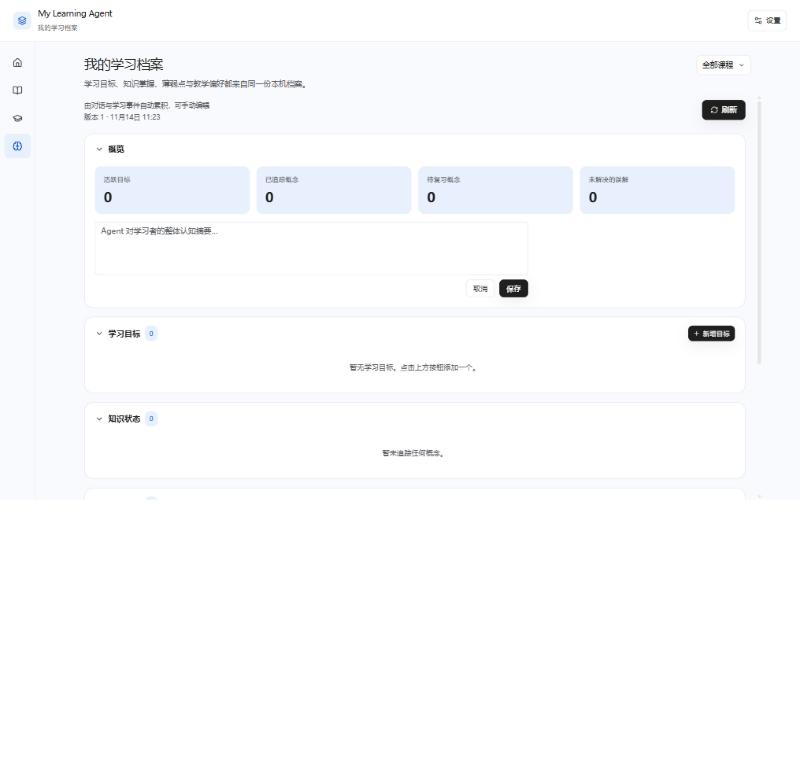
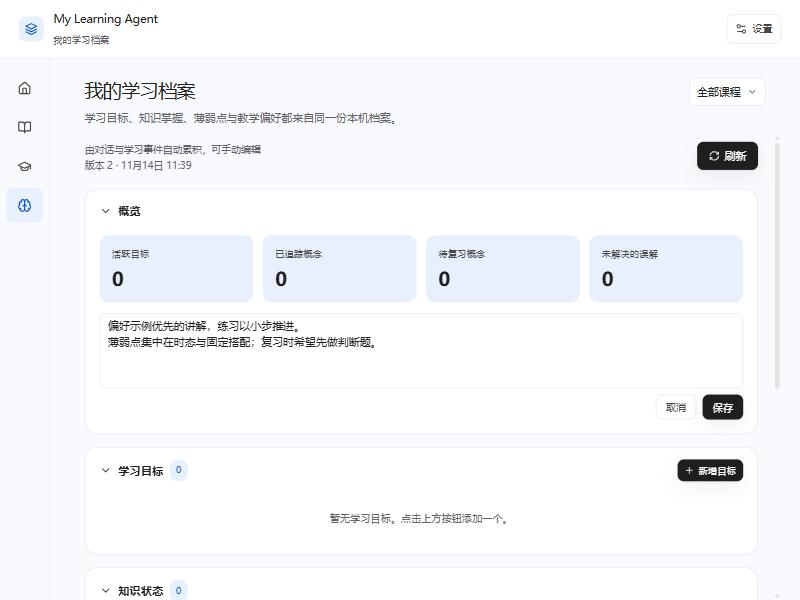
fix(profile): 摘要阅读卡与编辑框和上方统计块等宽
摘要原来被限制在 780px，而上方四个统计块铺满卡片，两者右边缘不齐，
看起来像两个不相关的区域。去掉该宽度限制，阅读卡、空状态和编辑框
都与统计块同宽；手机端同样对齐且无横向溢出。

diff --git a/apps/learning-agent/web/src/react/LearnerProfilePanel.tsx b/apps/learning-agent/web/src/react/LearnerProfilePanel.tsx
@@ -179,7 +179,7 @@ function SummarySection() {
 			</div>
 
 			{editing ? (
-				<div className="flex max-w-[780px] flex-col gap-2">
+				<div className="flex flex-col gap-2">
 					<Textarea
 						aria-label={t("profile.summary.readLabel")}
 						ref={textareaRef}
@@ -212,16 +212,16 @@ function SummarySection() {
 					</div>
 				</div>
 			) : saved ? (
-				// Long prose keeps the pre-widening measure: a card stretched to the
-				// 1240px column would set 90+ character lines.
-				<div className="max-w-[780px] rounded-xl border border-[var(--inno-border)] bg-[var(--inno-surface-muted)] px-4 py-3">
+				// Same width as the stat grid above: the summary is part of that
+				// block, and a narrower box read as a separate, unrelated field.
+				<div className="rounded-xl border border-[var(--inno-border)] bg-[var(--inno-surface-muted)] px-4 py-3">
 					<p className="m-0 whitespace-pre-wrap text-[13px] leading-relaxed text-[var(--inno-text-muted)]">
 						{saved}
 					</p>
 				</div>
 			) : (
 				// Compact empty state: one quiet line, not a form-sized blank box.
-				<p className="m-0 max-w-[780px] rounded-xl border border-dashed border-[var(--inno-border)] px-4 py-3 text-[13px] leading-relaxed text-[var(--inno-text-subtle)]">
+				<p className="m-0 rounded-xl border border-dashed border-[var(--inno-border)] px-4 py-3 text-[13px] leading-relaxed text-[var(--inno-text-subtle)]">
 					{t("profile.summary.empty")}
 				</p>
 			)}

diff --git a/apps/learning-agent/web/src/react/LearnerProfilePanel.summary.test.tsx b/apps/learning-agent/web/src/react/LearnerProfilePanel.summary.test.tsx
@@ -152,6 +152,19 @@ describe("profile summary section", () => {
 			expect((screen.getByRole("textbox", { name: "学习画像摘要" }) as HTMLTextAreaElement).value).toBe("正在编辑"));
 	});
 
+	it("gives the reading card, the empty state and the editor the same width as the stats", () => {
+		learnerStore.profile = profile("一段摘要");
+		render(<LearnerProfilePanel />);
+
+		const card = screen.getByText("一段摘要").parentElement!;
+		// No narrower measure: the summary belongs to the stat block above it.
+		expect(card.className).not.toContain("max-w-");
+
+		fireEvent.click(screen.getByRole("button", { name: "编辑摘要" }));
+		const editor = screen.getByRole("textbox", { name: "学习画像摘要" });
+		expect(editor.parentElement!.className).not.toContain("max-w-");
+	});
+
 	it("renders the add-goal button with one plus icon and no literal plus in its label", () => {
 		learnerStore.profile = profile("");
 		render(<LearnerProfilePanel />);
